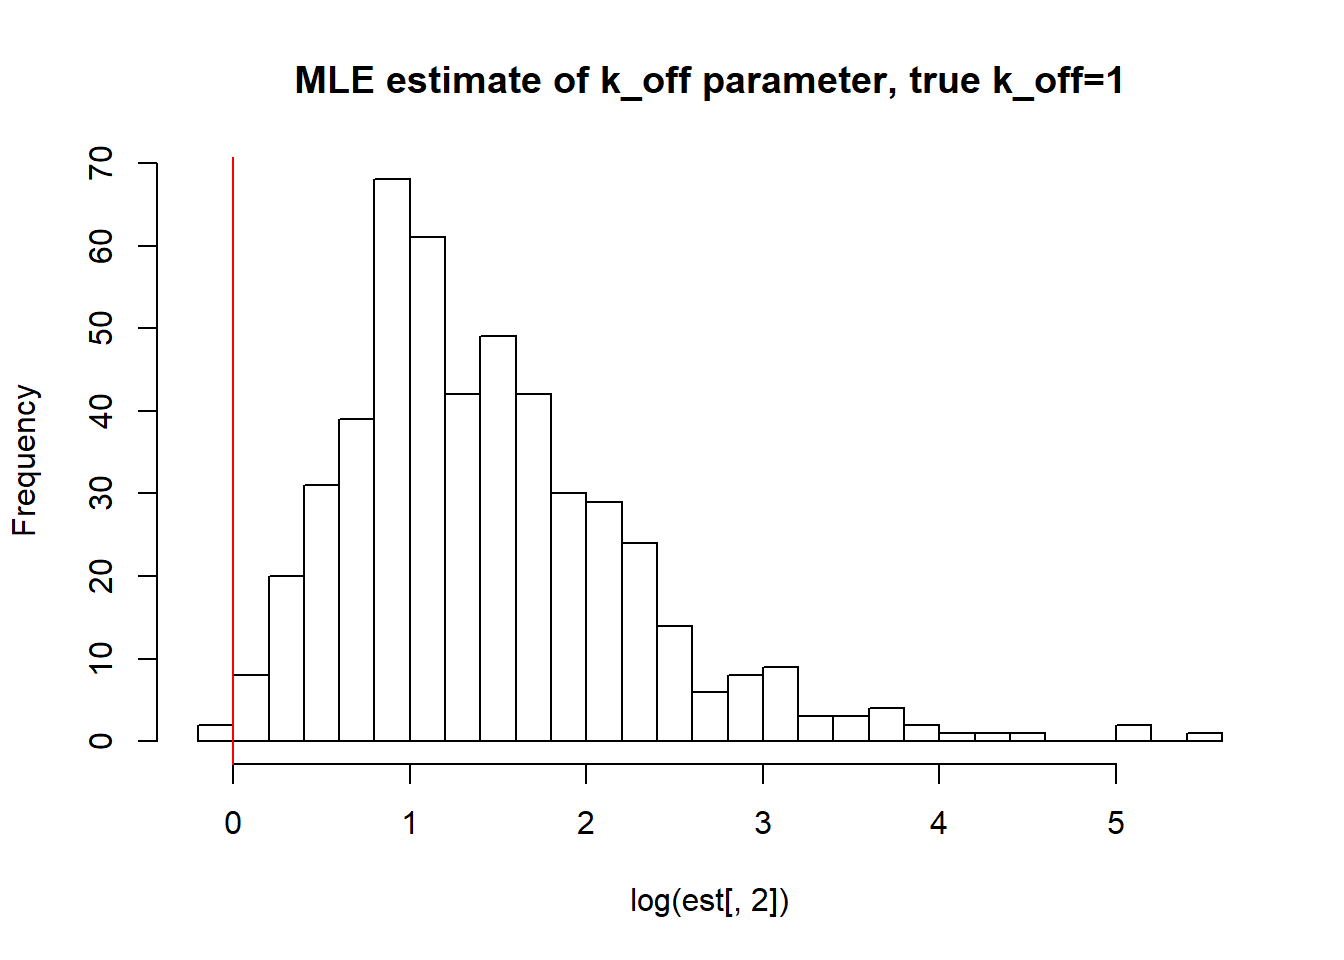
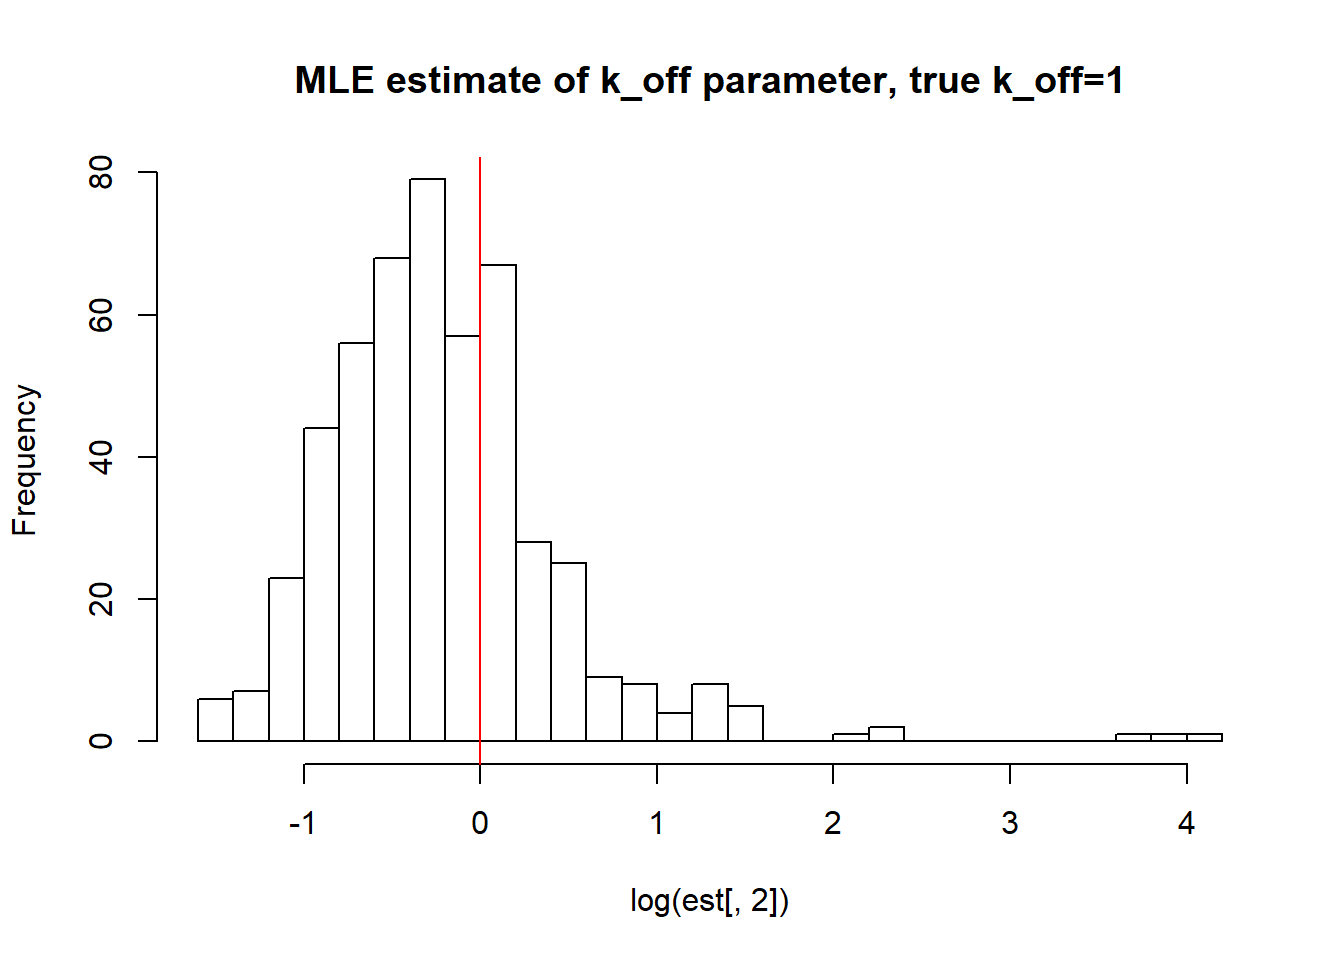
Build site.

diff --git a/docs/MLE_bootstrap.html b/docs/MLE_bootstrap.html
@@ -343,7 +343,7 @@ div.section {
 <div class="tab-content">
 <div id="summary" class="tab-pane fade in active">
 <p>
-<strong>Last updated:</strong> 2020-01-15
+<strong>Last updated:</strong> 2020-02-01
 </p>
 <p>
 <strong>Checks:</strong> <span class="glyphicon glyphicon-ok text-success" aria-hidden="true"></span> 6 <span class="glyphicon glyphicon-exclamation-sign text-danger" aria-hidden="true"></span> 1
@@ -458,10 +458,10 @@ analysis/MLE.py
 <div class="panel panel-default">
 <div class="panel-heading">
 <p class="panel-title">
-<a data-toggle="collapse" data-parent="#workflowr-checks" href="#strongRepositoryversionstrongahrefhttpsgithubcomMargareth2407ThesissingleRNAtree0a994dafaee3e551daa2860511889c7644feb93ftargetblank0a994daa"> <span class="glyphicon glyphicon-ok text-success" aria-hidden="true"></span> <strong>Repository version:</strong> <a href="https://github.com/Margareth2407/Thesis_single_RNA/tree/0a994dafaee3e551daa2860511889c7644feb93f" target="_blank">0a994da</a> </a>
+<a data-toggle="collapse" data-parent="#workflowr-checks" href="#strongRepositoryversionstrongahrefhttpsgithubcomMargareth2407ThesissingleRNAtreecd52ed5af2409a7a4df1484939f19d332acbd840targetblankcd52ed5a"> <span class="glyphicon glyphicon-ok text-success" aria-hidden="true"></span> <strong>Repository version:</strong> <a href="https://github.com/Margareth2407/Thesis_single_RNA/tree/cd52ed5af2409a7a4df1484939f19d332acbd840" target="_blank">cd52ed5</a> </a>
 </p>
 </div>
[2 lines of base64/hex data omitted]
 <div class="panel-body">
 <p>
 Great! You are using Git for version control. Tracking code development and connecting the code version to the results is critical for reproducibility. The version displayed above was the version of the Git repository at the time these results were generated. <br><br> Note that you need to be careful to ensure that all relevant files for the analysis have been committed to Git prior to generating the results (you can use <code>wflow_publish</code> or <code>wflow_git_commit</code>). workflowr only checks the R Markdown file, but you know if there are other scripts or data files that it depends on. Below is the status of the Git repository when the results were generated:
@@ -475,8 +475,11 @@ Ignored files:
 
 Unstaged changes:
     Modified:   Data_sim.Rmd
-    Deleted:    analysis/Data_sim.Rmd
-    Deleted:    analysis/MLE_bootstrap_N_variability.Rmd
+    Deleted:    analysis/MLE_bootstrap_variability_by_sample_size.Rmd
+    Deleted:    analysis/MLE_estimates.Rmd
+    Deleted:    analysis/MLE_estimation_with_noise_parameter.Rmd
+    Deleted:    analysis/MLE_variability_by_sample_size.Rmd
+    Deleted:    analysis/Real_data_filter.Rmd
 
 </code></pre>
 <p>
@@ -527,47 +530,47 @@ hist(log(est[,1]),breaks=30, main=&quot;MLE estimate of k_on parameter,true k_on
 abline(v=log(0.1),col=&#39;red&#39;)</code></pre>
 <p><img src="figure/MLE_bootstrap.Rmd/unnamed-chunk-3-1.png" width="672" style="display: block; margin: auto;" /></p>
 <pre class="r"><code>paste(&quot;true k_on is 0.1;&quot;,&quot;k_on mean;&quot;,round(mean(est[,1],na.rm=TRUE),3),&quot;k_on median&quot;, round(median(est[,1],na.rm=TRUE),3),&quot;k_on st.deviation&quot;,round(sqrt(var(est[,1],na.rm=TRUE)),3))</code></pre>
-<pre><code>[1] &quot;true k_on is 0.1; k_on mean; 0.09 k_on median 0.09 k_on st.deviation 0.009&quot;</code></pre>
+<pre><code>[1] &quot;true k_on is 0.1; k_on mean; 0.119 k_on median 0.119 k_on st.deviation 0.01&quot;</code></pre>
 <pre class="r"><code>hist(log(est[,2]),breaks=30, main=&quot;MLE estimate of k_off parameter, true k_off=0.1&quot;)
 abline(v=log(0.1),col=&#39;red&#39;)</code></pre>
 <p><img src="figure/MLE_bootstrap.Rmd/unnamed-chunk-3-2.png" width="672" style="display: block; margin: auto;" /></p>
 <pre class="r"><code>paste(&quot;true k_off is 0.1;&quot;,&quot;k_off mean;&quot;,round(mean(est[,2],na.rm=TRUE),3),&quot;k_off median&quot;, round(median(est[,2],na.rm=TRUE),3),&quot;k_off st.deviation&quot;,round(sqrt(var(est[,2],na.rm=TRUE)),3))</code></pre>
-<pre><code>[1] &quot;true k_off is 0.1; k_off mean; 0.089 k_off median 0.089 k_off st.deviation 0.01&quot;</code></pre>
+<pre><code>[1] &quot;true k_off is 0.1; k_off mean; 0.13 k_off median 0.129 k_off st.deviation 0.014&quot;</code></pre>
 <pre class="r"><code>hist(log(est[,3]),breaks=30, main=&quot;MLE estimate of k_r parameter,true k_r=100&quot;)
 abline(v=log(100),col=&#39;red&#39;)</code></pre>
 <p><img src="figure/MLE_bootstrap.Rmd/unnamed-chunk-3-3.png" width="672" style="display: block; margin: auto;" /></p>
 <pre class="r"><code>paste(&quot;true k_r is 100;&quot;,&quot;k_r mean;&quot;,round(mean(est[,3],na.rm=TRUE),3),&quot;k_r median&quot;, round(median(est[,3],na.rm=TRUE),3),&quot;k_r st.deviation&quot;,round(sqrt(var(est[,3],na.rm=TRUE)),3))</code></pre>
-<pre><code>[1] &quot;true k_r is 100; k_r mean; 100.418 k_r median 100.41 k_r st.deviation 0.747&quot;</code></pre>
+<pre><code>[1] &quot;true k_r is 100; k_r mean; 100.114 k_r median 100.115 k_r st.deviation 0.93&quot;</code></pre>
 <p>As we saw in previous vignette, this small <span class="math inline">\(k_{on}\)</span>, <span class="math inline">\(k_{off}\)</span> scenario has clearly identifiable solutions which is confirmed by boorstrap as we see again mean, median are close to the true value and standart deviation is small as well.</p>
 </div>
 <div id="ii-large-k_on-and-k_off-case" class="section level2">
 <h2>II) Large <span class="math inline">\(k_{on}\)</span> and <span class="math inline">\(k_{off}\)</span> case:</h2>
 <p><img src="figure/MLE_bootstrap.Rmd/unnamed-chunk-4-1.png" width="672" style="display: block; margin: auto;" /></p>
-<pre><code>[1] &quot;true k_on is 50; k_on mean; 75.154 k_on median 76.265 k_on st.deviation 18.43&quot;</code></pre>
+<pre><code>[1] &quot;true k_on is 50; k_on mean; 72.132 k_on median 79.435 k_on st.deviation 32.035&quot;</code></pre>
 <p><img src="figure/MLE_bootstrap.Rmd/unnamed-chunk-4-2.png" width="672" style="display: block; margin: auto;" /></p>
-<pre><code>[1] &quot;true k_off is 50; k_off mean; 240.104 k_off median 242.953 k_off st.deviation 136.995&quot;</code></pre>
+<pre><code>[1] &quot;true k_off is 50; k_off mean; 140.46 k_off median 128.02 k_off st.deviation 125.1&quot;</code></pre>
 <p><img src="figure/MLE_bootstrap.Rmd/unnamed-chunk-4-3.png" width="672" style="display: block; margin: auto;" /></p>
-<pre><code>[1] &quot;true k_r is 100; k_r mean; 200.785 k_r median 194.239 k_r st.deviation 83.08&quot;</code></pre>
+<pre><code>[1] &quot;true k_r is 100; k_r mean; 128.336 k_r median 120.557 k_r st.deviation 62.507&quot;</code></pre>
 <p>Large <span class="math inline">\(k_{on}\)</span> and <span class="math inline">\(k_{off}\)</span> as said earlier produces a dataset with unidentifiable parameters as we do not approach true values with neigher mean or median with huge standart deviation.</p>
 </div>
 <div id="iii-large-value-of-k_off-and-small-k_on-case" class="section level2">
 <h2>III) Large value of <span class="math inline">\(k_{off}\)</span> and small <span class="math inline">\(k_{on}\)</span> case:</h2>
 <p><img src="figure/MLE_bootstrap.Rmd/unnamed-chunk-5-1.png" width="672" style="display: block; margin: auto;" /></p>
-<pre><code>[1] &quot;true k_on is 1; k_on mean; 1.101 k_on median 1.101 k_on st.deviation 0.093&quot;</code></pre>
+<pre><code>[1] &quot;true k_on is 1; k_on mean; 0.954 k_on median 0.951 k_on st.deviation 0.088&quot;</code></pre>
 <p><img src="figure/MLE_bootstrap.Rmd/unnamed-chunk-5-2.png" width="672" style="display: block; margin: auto;" /></p>
-<pre><code>[1] &quot;true k_off is 10; k_off mean; 112.87 k_off median 58.196 k_off st.deviation 158.393&quot;</code></pre>
+<pre><code>[1] &quot;true k_off is 10; k_off mean; 10.538 k_off median 6.585 k_off st.deviation 15.538&quot;</code></pre>
 <p><img src="figure/MLE_bootstrap.Rmd/unnamed-chunk-5-3.png" width="672" style="display: block; margin: auto;" /></p>
-<pre><code>[1] &quot;true k_r is 100; k_r mean; 898.381 k_r median 460.835 k_r st.deviation 1307.302&quot;</code></pre>
+<pre><code>[1] &quot;true k_r is 100; k_r mean; 106.493 k_r median 74.295 k_r st.deviation 127.793&quot;</code></pre>
 <p>Big <span class="math inline">\(k_{off}\)</span> and small <span class="math inline">\(k_{on}\)</span> values allow us to identify <span class="math inline">\(k_{on}\)</span> parameter, but prevent correct estimation of <span class="math inline">\(k_{off}\)</span> and <span class="math inline">\(k_{r}\)</span>. We see high standart deviation of the parameters as well as some huge outliers.</p>
 </div>
 <div id="iv-small-value-of-k_off-and-big-k_on" class="section level2">
 <h2>IV) Small value of <span class="math inline">\(k_{off}\)</span> and big <span class="math inline">\(k_{on}\)</span></h2>
 <p><img src="figure/MLE_bootstrap.Rmd/unnamed-chunk-6-1.png" width="672" style="display: block; margin: auto;" /></p>
-<pre><code>[1] &quot;true k_on is 10; k_on mean; 21.662 k_on median 18.733 k_on st.deviation 9.796&quot;</code></pre>
+<pre><code>[1] &quot;true k_on is 10; k_on mean; 10.326 k_on median 9.308 k_on st.deviation 5.637&quot;</code></pre>
 <p><img src="figure/MLE_bootstrap.Rmd/unnamed-chunk-6-2.png" width="672" style="display: block; margin: auto;" /></p>
-<pre><code>[1] &quot;true k_off is 1; k_off mean; 7.306 k_off median 3.603 k_off st.deviation 17.577&quot;</code></pre>
+<pre><code>[1] &quot;true k_off is 1; k_off mean; 1.286 k_off median 0.753 k_off st.deviation 3.991&quot;</code></pre>
 <p><img src="figure/MLE_bootstrap.Rmd/unnamed-chunk-6-3.png" width="672" style="display: block; margin: auto;" /></p>
-<pre><code>[1] &quot;true k_r is 100; k_r mean; 113.357 k_r median 108.87 k_r st.deviation 21.84&quot;</code></pre>
+<pre><code>[1] &quot;true k_r is 100; k_r mean; 100.143 k_r median 99.106 k_r st.deviation 5.758&quot;</code></pre>
 <p>We again observe that parameters get estimated quite accurately, even though not as good as in case I. Standart deviation is reasonable, while mean and median approach true value.</p>
 <br>
 <p>
